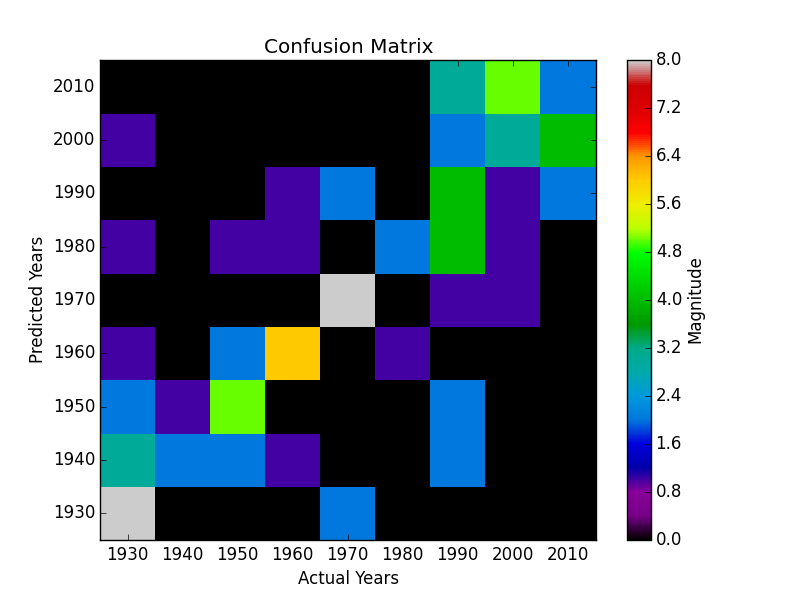
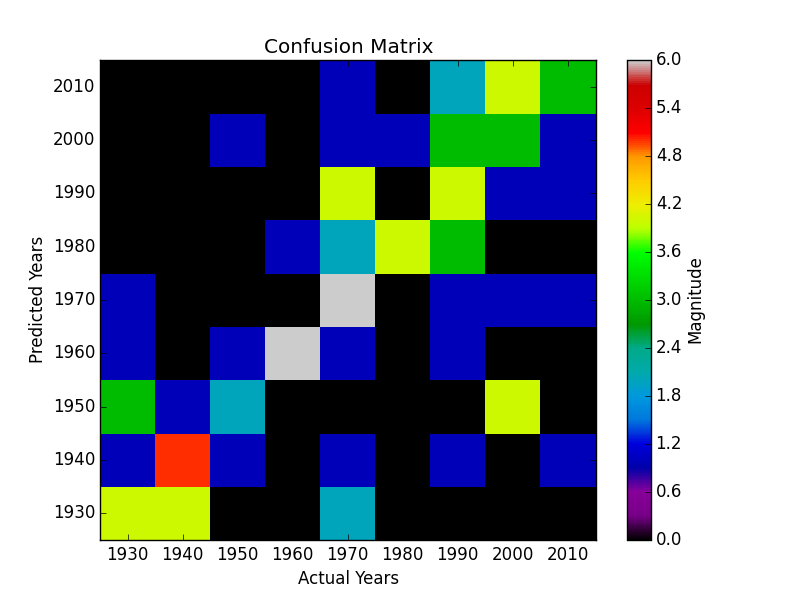
arghpython P3.py

diff --git a/P2.py b/P2.py
@@ -82,6 +82,7 @@ def y_given_x(years, plots, word):
 # Returns dictionary of all words and count in all years
 def all_x_all_y(years, plots):
 	wc = {}
+	dw = {}
 	for i, year in enumerate(years):
 		for word in norm_words(plots[i], exclude_stopwords=False):
 			if word in wc:
@@ -92,7 +93,17 @@ def all_x_all_y(years, plots):
 			else:
 				wc[word] = {}
 				wc[word][year] = 1.
-	return wc
+
+			if year in dw:
+				if word in dw[year]: 
+					dw[year][word] += 1.
+				else:
+					dw[year][word] = 1.
+			else:
+				dw[year] = {}
+				dw[year][word] = 1.
+
+	return dw, wc
 
 # Returns probability of word in given year
 def p_x_given_y(wc, word, year, y_count):
@@ -105,11 +116,22 @@ def p_x_given_y(wc, word, year, y_count):
 	return p	
 
 # Returns sorted tuple of movie prediction for each year for given plot
-def movie_decade_probs(wc, years, train_sample_size, plot, skip_words=None):
+def movie_decade_probs(wc, dw, years, train_sample_size, plot, skip_words=None):
 	min_year, max_year, bin_num = year_stats(years)
 	decade_probs = {}
 	for year in range(min_year, max_year + 10, 10):
 		p = 0
+		# movie_words = norm_words(plot, exclude_stopwords=True)
+		# decade_words = dw[year]
+		# for word in decade_words:
+		# 	if skip_words and year in skip_words:
+		# 		if word in skip_words[year]:
+		# 			continue
+		# 	if word in movie_words:
+		# 		p += math.log(p_x_given_y(wc, word, year, train_sample_size),10)
+		# 	else:
+		# 		p += math.log(1 - p_x_given_y(wc, word, year, train_sample_size),10)
+
 		for word in norm_words(plot, exclude_stopwords=True):
 			if skip_words and year in skip_words:
 				if word in skip_words[year]:
@@ -131,12 +153,12 @@ def get_movie(all_movies, movie_title):
 	return year, plot
 
 # Returns Predicted movie year
-def predict_decade(wc, years_train, train_sample_size, plot='', title='', all_movies=None, prints=False, skip_words=None):
+def predict_decade(wc, dw, years_train, train_sample_size, plot='', title='', all_movies=None, prints=False, skip_words=None):
 	decade = 0
 	if not title == '' and not all_movies == None:
 		decade, plot = get_movie(all_movies, title)
 	
-	decade_probs = movie_decade_probs(wc, years_train, train_sample_size, plot, skip_words=skip_words)
+	decade_probs = movie_decade_probs(wc, dw, years_train, train_sample_size, plot, skip_words=skip_words)
 	predicted_decade =  decade_probs[0][0]
 
 	if prints:
@@ -169,7 +191,7 @@ if __name__ == '__main__':
 	year_count_train = [0]*bin_num
 	year_count_test = [0]*bin_num
 	train_sample_size = 5000
-	test_sample_size = 10
+	test_sample_size = 1000
 
 	# Create uniformly distributed training and test sets
 	for i, year in enumerate(years):
@@ -184,13 +206,13 @@ if __name__ == '__main__':
 			years_test.append(year)
 			plots_test.append(plots[i])
 			titles_test.append(titles[i])
-	wc = all_x_all_y(years_train, plots_train)
+	dw, wc = all_x_all_y(years_train, plots_train)
 
 	# Test classifier
 	correct_count = [0.]*bin_num
 	confusion_matrix = np.zeros((bin_num,bin_num))
 	for i, plot in enumerate(plots_test):
-		predicted_decade, decade_probs = predict_decade(wc, years_train, train_sample_size, plot=plot)
+		predicted_decade, decade_probs = predict_decade(wc, dw, years_train, train_sample_size, plot=plot)
 		actual_year = years_test[i]
 		ay_bin = int((actual_year - min_year)/10)
 		py_bin = int((predicted_decade - min_year)/10)
@@ -223,11 +245,11 @@ if __name__ == '__main__':
 	# hist_plot(y_given_x(years_train, plots_train, 'the'), "PMF of P(Y|X'the'>0)", 'P2h.png')
 
 	# 2j. Predicts for certain movies
-	predict_decade(wc, years_train, train_sample_size, title='Finding Nemo', all_movies = all_movies, prints = True)
-	predict_decade(wc, years_train, train_sample_size, title='The Matrix', all_movies = all_movies, prints = True)
-	predict_decade(wc, years_train, train_sample_size, title='Gone with the Wind', all_movies = all_movies, prints = True)
-	predict_decade(wc, years_train, train_sample_size, title='Harry Potter and the Goblet of Fire', all_movies = all_movies, prints = True)
-	predict_decade(wc, years_train, train_sample_size, title='Avatar', all_movies = all_movies, prints = True)
+	predict_decade(wc, dw, years_train, train_sample_size, title='Finding Nemo', all_movies = all_movies, prints = True)
+	predict_decade(wc, dw, years_train, train_sample_size, title='The Matrix', all_movies = all_movies, prints = True)
+	predict_decade(wc, dw, years_train, train_sample_size, title='Gone with the Wind', all_movies = all_movies, prints = True)
+	predict_decade(wc, dw, years_train, train_sample_size, title='Harry Potter and the Goblet of Fire', all_movies = all_movies, prints = True)
+	predict_decade(wc, dw, years_train, train_sample_size, title='Avatar', all_movies = all_movies, prints = True)
 	
 	# 2k. Accuracy of the classifier
 	print "Accuracy on test: ", correct_count[0]/len(plots_test)

diff --git a/P3.py b/P3.py
@@ -5,17 +5,17 @@ from parse_movies_example import load_all_movies
 from nltk.corpus import stopwords
 import P2
 
-def get_top_words(wc, top_num = 10):
+def get_top_words(wc, train_sample_size, top_num = 10):
 	top_words = {}
 	for word in wc:
 		if not word in stopwords.words():
 			for decade in wc[word]:
-				p = P2.p_x_given_y(wc, word, decade)
+				p = P2.p_x_given_y(wc, word, decade, train_sample_size)
 				p_min = 1
 
 				for n_decade in wc[word]:
 					if not n_decade == decade:
-						p_min = min(P2.p_x_given_y(wc, word, n_decade), p_min)
+						p_min = min(P2.p_x_given_y(wc, word, n_decade, train_sample_size), p_min)
 
 				ratio = p/p_min
 				# ratio = wc[word][decade]/min(wc[word].values())
@@ -71,20 +71,20 @@ if __name__ == '__main__':
 			years_test.append(year)
 			plots_test.append(plots[i])
 			titles_test.append(titles[i])
-	wc = P2.all_x_all_y(years_train, plots_train)
+	dw, wc = P2.all_x_all_y(years_train, plots_train)
 
 	# 3a. Determine Top 10 words of each decade
-	top_words = get_top_words(wc, 10)
+	top_words = get_top_words(wc, train_sample_size, 10)
 	for decade in top_words:
 		print decade, ':', top_words[decade].keys()
 
 	# 3b. Test classifer without top 100 words
-	top_words = get_top_words(wc, 100)
+	top_words = get_top_words(wc, train_sample_size, 100)
 	correct_count_wo = [0.]*bin_num
 	correct_count_w = [0.]*bin_num
 	for i, plot in enumerate(plots_test):
-		predicted_decade_wo, decade_probs_wo = P2.predict_decade(wc, years_train, train_sample_size, plot=plot, skip_words=top_words)
-		predicted_decade_w, decade_probs_w = P2.predict_decade(wc, years_train, train_sample_size, plot=plot)
+		predicted_decade_wo, decade_probs_wo = P2.predict_decade(wc, dw, years_train, train_sample_size, plot=plot, skip_words=top_words)
+		predicted_decade_w, decade_probs_w = P2.predict_decade(wc, dw, years_train, train_sample_size, plot=plot)
 
 		actual_year = years_test[i]
 		for i, decade in enumerate(decade_probs_wo):
